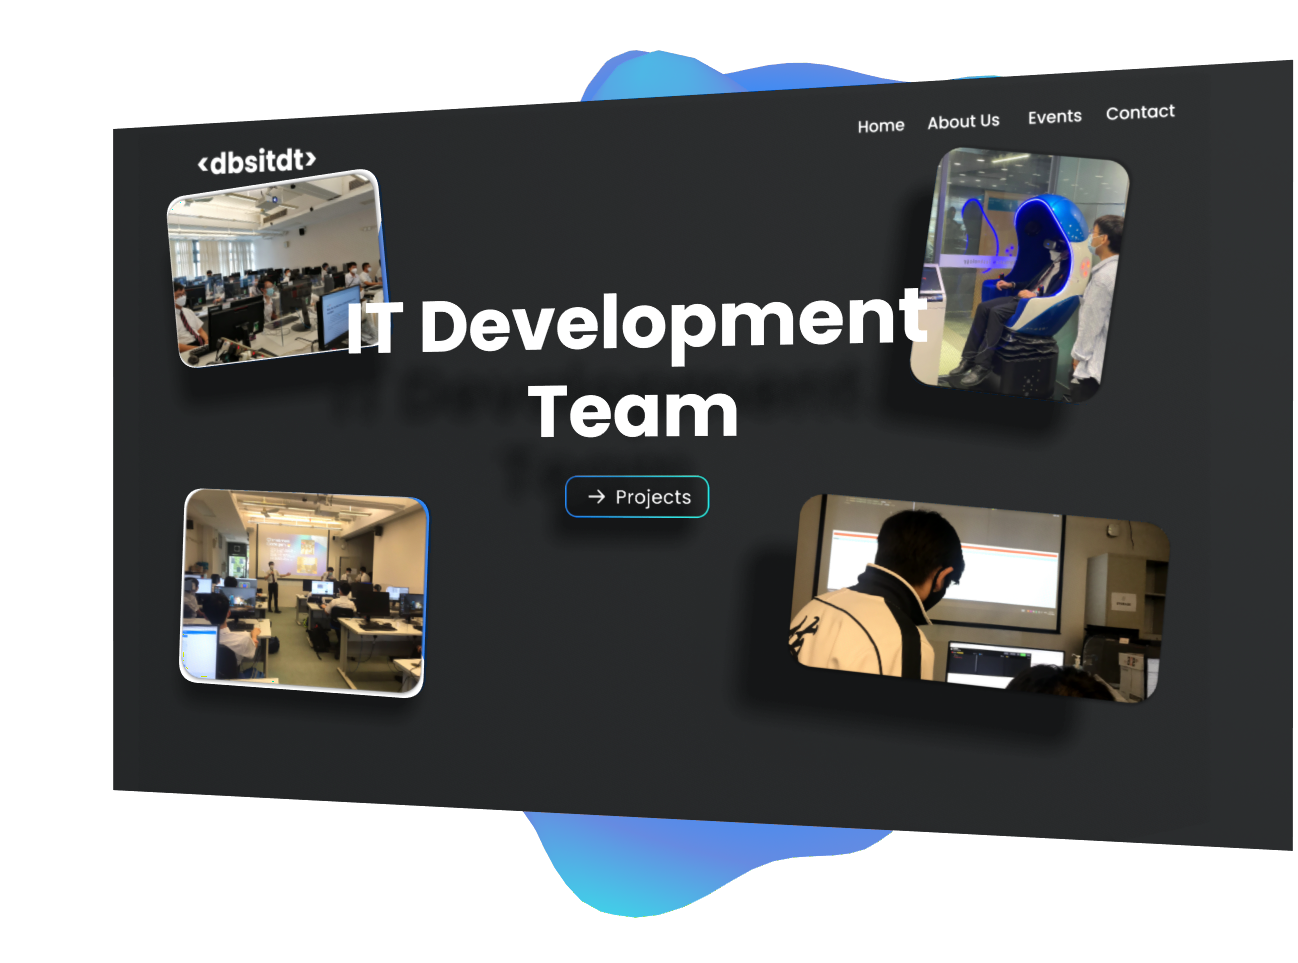
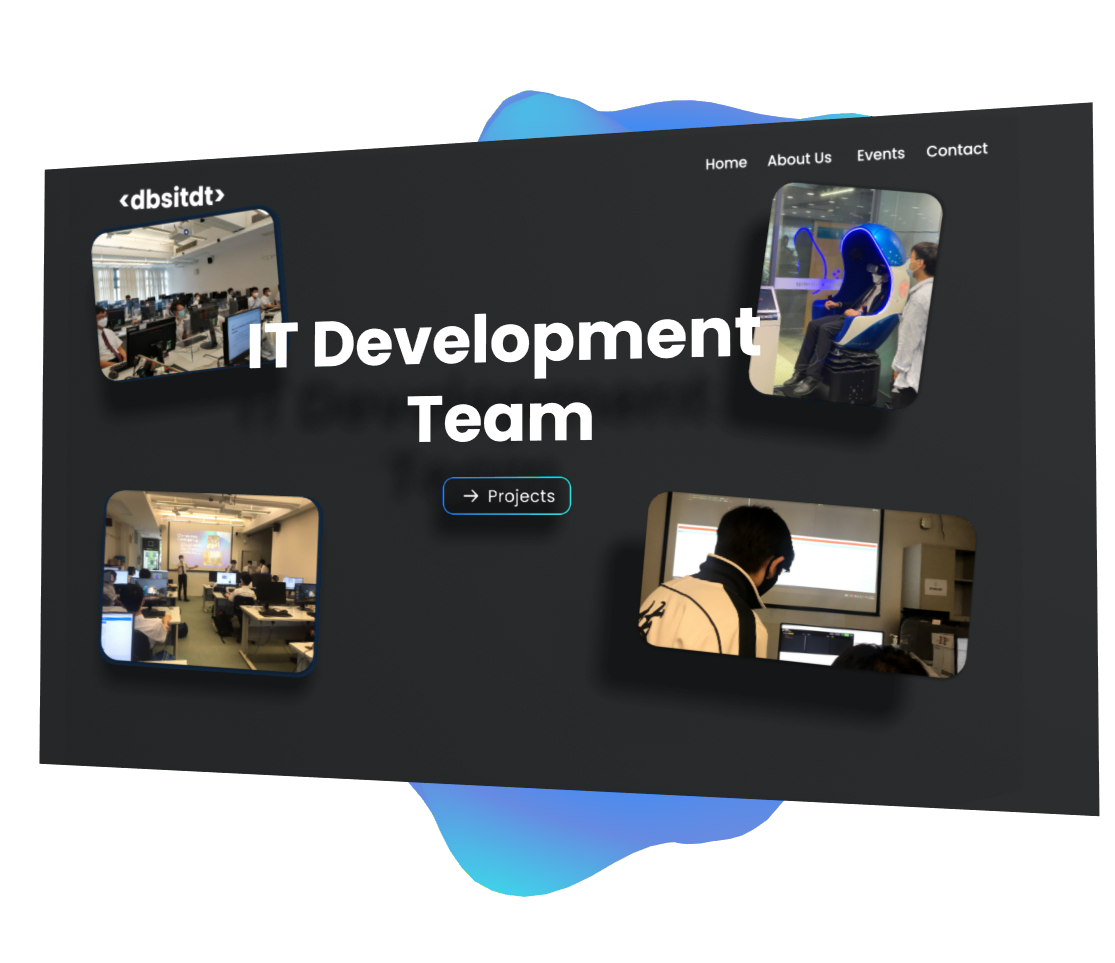
Adding padding

diff --git a/src/components/landing/LandingProjects.vue b/src/components/landing/LandingProjects.vue
@@ -21,7 +21,7 @@
         </div>
         <img
           id="canvas3d"
-          src="../../assets/projects/projects-dbsitdt-new.png"
+          src="../../assets/projects/projects-dbsitdt.png"
           alt="dbsitdt"
           draggable="false"
         />
@@ -137,7 +137,9 @@ export default {
   display: flex;
   align-items: center;
   min-height: 50vh;
-  padding-bottom: 2vh;
+}
+.project-container:not(:last-child) {
+  padding-bottom: 5vh;
 }
 .project-text {
   display: flex;
